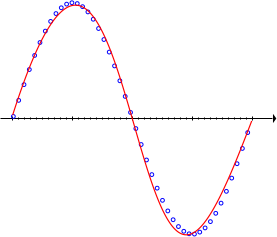
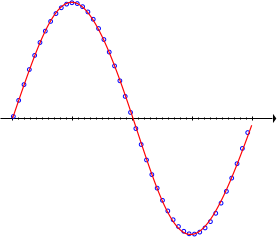
added quadratic and mnist_autoencoder sample

diff --git a/example/mnist_autoencoder.c b/example/mnist_autoencoder.c
@@ -1,0 +1,94 @@
+//---------------------------------------------------------
+//	Cat's eye
+//
+//		©2016 Yuichiro Nakada
+//---------------------------------------------------------
+
+// gcc mnist_autoencoder.c -o mnist_autoencoder -lm -Ofast -fopenmp -lgomp
+// clang mnist_autoencoder.c -o mnist_autoencoder -lm -Ofast
+//#define CATS_AUTOENCODER
+#define CATS_LOSS_MSE
+//#define CATS_OPT_ADAGRAD
+//#define CATS_OPT_ADAM
+//#define CATS_OPT_RMSPROP
+//#define CATS_OPT_RMSPROPGRAVES
+//#define CATS_OPT_MOMENTUM
+#include "../catseye.h"
+//#define STB_IMAGE_IMPLEMENTATION
+//#include "../stb_image.h"
+#define STB_IMAGE_WRITE_IMPLEMENTATION
+#include "../stb_image_write.h"
+
+int main()
+{
+	int size = 28*28;	// 入出力層(28x28)
+	int hidden = 64;	// 隠れ層
+	//int hidden = 500;	// 隠れ層
+	int sample = 60000;
+
+	CatsEye cat;
+	CatsEye__construct(&cat, size, hidden, size, 0);
+
+	double *x = malloc(sizeof(double)*size*sample);	// 訓練データ
+//	int t[sample];			// ラベルデータ
+	unsigned char *data = malloc(sample*size);
+
+	// 訓練データの読み込み
+	printf("Training data:\n");
+	FILE *fp = fopen("train-images-idx3-ubyte", "rb");
+	if (fp==NULL) return -1;
+	fread(data, 16, 1, fp);		// header
+	fread(data, size, sample, fp);	// data
+	for (int i=0; i<sample*size; i++) x[i] = data[i] / 255.0;
+	fclose(fp);
+	/*fp = fopen("train-labels-idx1-ubyte", "rb");
+	if (fp==NULL) return -1;
+	fread(data, 8, 1, fp);		// header
+	fread(data, 1, sample, fp);	// data
+	for (int i=0; i<sample; i++) t[i] = data[i];
+	fclose(fp);*/
+	free(data);
+
+	// 多層パーセプトロンの訓練
+	printf("Starting training using (stochastic) gradient descent\n");
+//	CatsEye_train(&cat, x, x, sample-1, 100, 1e-5);		// SGD[h64/20.0]
+//	CatsEye_train(&cat, x, x, sample-1, 500, 1e-5);		// SGD[h64/15.0]
+	CatsEye_train(&cat, x, x, sample-1, 1500, 1e-5);	// SGD[h64/15.0]
+//	CatsEye_train(&cat, x, x, sample-1, 5500, 1e-5);	// SGD[h64/3.9]
+	printf("Training complete\n");
+//	CatsEye_save(&cat, "mnist_autoencoder.weights");
+//	CatsEye_saveJson(&cat, "mnist_autoencoder.json");
+
+	// 結果の表示
+	unsigned char *pixels = malloc(size*100);
+	for (int i=0; i<50; i++) {
+		double mse = 0;
+		CatsEye_forward(&cat, x+size*i);
+		unsigned char *p = &pixels[(i/10)*size*10 + (i%10)*28];
+		for (int j=0; j<size; j++) {
+			p[(j/28)*28*10+(j%28)] = cat.o3[j] * 255.0;
+			mse += (x[size*i+j]-cat.o3[j])*(x[size*i+j]-cat.o3[j]);
+
+			p[5*size*10+(j/28)*28*10+(j%28)] = x[size*i+j] * 255.0;
+		}
+		printf("mse %lf\n", mse);
+	}
+	stbi_write_png("mnist_autoencoder.png", 28*10, 28*10, 1, pixels, 28*10);
+
+	// 重みをスケーリング
+/*	double max = cat.w1[0];
+	double min = cat.w1[0];
+	for (int i=0; i<(size+1)*hidden; i++) {
+		if (max < cat.w1[i]) max = cat.w1[i];
+		if (min > cat.w1[i]) min = cat.w1[i];
+	}
+	for (int i=0; i<(size+1)*hidden; i++) {
+		cat.w1[i] = (cat.w1[i] - min) / (max - min);
+		//cat.w1[i] *= 255.0;
+		pixels[i] = cat.w1[i] * 255.0;
+	}
+	stbi_write_png("autoencoder_weights.png", size+1, hidden, 1, pixels, size+1);*/
+	free(pixels);
+
+	return 0;
+}

diff --git a/catseye.h b/catseye.h
@@ -10,6 +10,8 @@
 #include <time.h>
 #include <math.h>
 
+#define CATS_RANDOM
+
 #define CATS_SIGMOID
 //#define CATS_TANH
 //#define CATS_SCALEDTANH
@@ -20,7 +22,7 @@
 #ifdef CATS_SIGMOID_CROSSENTROPY
 // sigmoid function with cross entropy loss
 #define CATS_SIGMOID
-#define s_gain			10
+#define s_gain			1
 #define ACT2(x)			ACT1(x)
 #define DACT2(x)		DACT1(x)
 // SoftmaxWithLoss
@@ -105,10 +107,10 @@
 // SGD (Vanilla update)
 #define CATS_OPT_SGD
 #define OPT_CALC1(x)
-//#define OPT_CALC2(n, x, y)		this->w##x[i*n+j] -= eta*this->o##x[i] *this->d##y[j]
+//#define OPT_CALC2(n, x, y)	this->w##x[i*n+j] -= eta*this->o##x[i] *this->d##y[j]
 // SVM (http://d.hatena.ne.jp/echizen_tm/20110627/1309188711)
 // ∂loss(w, x, t) / ∂w = ∂(λ - twx + α * w^2 / 2) / ∂w = - tx + αw
-#define OPT_CALC2(n, x, y)		this->w##x[i*n+j] -= eta*this->o##x[i] *this->d##y[j] +this->w##x[i*n+j]*1e-8
+#define OPT_CALC2(n, x, y)	this->w##x[i*n+j] -= eta*this->o##x[i] *this->d##y[j] +this->w##x[i*n+j]*1e-8
 #endif
 
 typedef struct {
@@ -257,7 +259,6 @@ void CatsEye_forward(CatsEye *this, double *x)
 	this->o1[this->in] = 1;	// bias
 
 	// caluculation of hidden layer
-//	#pragma omp parallel for
 	for (int j=0; j<this->hid; j++) {
 /*		this->xi2[j] = 0;
 		for (int i=0; i<this->in+1; i++) {
@@ -293,12 +294,12 @@ void CatsEye_train(CatsEye *this, double *x, void *t, int N, int repeat, double 
 		memset(this->e3, 0, sizeof(double)*this->out);
 		memset(this->e2, 0, sizeof(double)*this->hid);
 #endif
-#ifdef CATS_MINI_BATCH
+#ifndef CATS_RANDOM
 		for (int sample=0; sample<N; sample++) {
 			// forward propagation
 			CatsEye_forward(this, x+sample*this->in);
 #else
-		for (int n=0; n<100; n++) {
+		for (int n=0; n<2000/*N/*100*/; n++) {
 			// forward propagation
 			//srand((unsigned)time(NULL));
 			//int sample = ((double)rand()+1.0)/((double)RAND_MAX+2.0) * N;
@@ -321,7 +322,6 @@ void CatsEye_train(CatsEye *this, double *x, void *t, int N, int repeat, double 
 				this->d3[i] = this->o3[i]-((double*)t)[sample*this->out+i];
 //				this->d3[i] = (this->o3[i]-((double*)t)[sample*this->out+i]) * DACT2(this->o3[i]);
 #endif
-				// AdaGrad (http://qiita.com/ak11/items/7f63a1198c345a138150)
 //				this->e3[i] += this->d3[i]*this->d3[i];
 				OPT_CALC1(3);
 			}
@@ -363,6 +363,13 @@ void CatsEye_train(CatsEye *this, double *x, void *t, int N, int repeat, double 
 				}
 			}
 			//transpose(this->w1, this->w2, this->in+1, this->hid);
+			/*double *dst = this->w2;
+			for (int i=0; i<this->hid; i++) {
+				for (int j=0; j<this->in; j++) {
+					*dst++ = this->w1[this->hid*j + i];
+				}
+				dst++;
+			}*/
 #endif
 
 			// calculate the mean squared error

diff --git a/example/autoencoder.c b/example/autoencoder.c
@@ -63,17 +63,18 @@ int main()
 //	CatsEye_train(&cat, x, x, 1, 50/*repeat*/, 0.01);
 //	CatsEye_train(&cat, x, x, 2, 1000/*repeat*/, 0.01);
 //	CatsEye_train(&cat, x, x, 3, 1000/*repeat*/, 0.001);
-//	CatsEye_train(&cat, x, x, 10, 10000, 0.001);		// Success by SGD
-//	CatsEye_train(&cat, x, x, 50, 1000000, 1e-5);		// SGD[3.0], Momentum[9.0], Adam[96], SGD[h48/0.06]
+//	CatsEye_train(&cat, x, x, 10, 1000, 0.001);		// Success by SGD[0.0]
+	//CatsEye_train(&cat, x, x, 50, 1000000, 1e-5);		// SGD[3.0], Momentum[9.0], Adam[96], SGD[h48/0.06]
 //	CatsEye_train(&cat, x, x, 100, 100000, 1e-5);		// SGD[h48/4.5]
 //	CatsEye_train(&cat, x, x, sample-1, 10000, 0.01);	// AdaGrad[127]
 //	CatsEye_train(&cat, x, x, sample-1, 10000, 1e-4);	// Adam, RMSpropGraves, SGD[89.0]
 	//CatsEye_train(&cat, x, x, 50, 30000, 1e-3);		// AdaGrad[h48/7.2]
-	CatsEye_train(&cat, x, x, 50, 100000, 1e-4);		// SGD[h48/0.25], SGD[h56/0.002], SGD[h64/0.000013]
+//	CatsEye_train(&cat, x, x, 50, 100000, 1e-4);		// SGD[h48/0.25], SGD[h56/0.002], SGD[h64/0.000013]
 	//CatsEye_train(&cat, x, x, 50, 1900, 1e-2);		// SGD[h48+sigmoid/0.000099]
 	//CatsEye_train(&cat, x, x, sample-1, 1900, 1e-3);	// SGD[h48+sigmoid/0.000063]
 	//CatsEye_train(&cat, x, x, sample-1, 5500, 1e-4);	// SGD[h48+sigmoid/0.0029]
-//	CatsEye_train(&cat, x, x, sample-1, 10000, 1e-5);	// SGD[27.0], SGD[h56/4.6], SGD[h64/3.5], SGD[h16/128]
+	CatsEye_train(&cat, x, x, sample-1, 10000, 1e-5);	// SGD[27.0], SGD[h56/4.6], SGD[h64/3.5], SGD[h16/128]
+	//CatsEye_train(&cat, x, x, sample-1, 500, 1e-4);	// SGD[52.3]
 	//CatsEye_train(&cat, x, x, sample-1, 30000, 1e-5);	// SGD[h48/8.8], SGD[h48+sigmoid/0.0047]
 	//CatsEye_train(&cat, x, x, sample-1, 10000, 1e-6);	// SGD[78.0], SGD/tanh[51.4]
 	printf("Training complete\n");
@@ -85,11 +86,12 @@ int main()
 	for (int i=0; i<50; i++) {
 		double mse = 0;
 		CatsEye_forward(&cat, x+size*i);
+		unsigned char *p = &pixels[(i/10)*size*10 + (i%10)*8];
 		for (int j=0; j<size; j++) {
-			pixels[(i/10)*8*8*10+(i%10)*8+(j/8)*8*10+(j%8)] = cat.o3[j] * 255.0;
+			p[(j/8)*8*10+(j%8)] = cat.o3[j] * 255.0;
 			mse += (x[size*i+j]-cat.o3[j])*(x[size*i+j]-cat.o3[j]);
 
-			pixels[5*8*8*10+(i/10)*8*8*10+(i%10)*8+(j/8)*8*10+(j%8)] = x[size*i+j] * 255.0;
+			p[5*size*10+(j/8)*8*10+(j%8)] = x[size*i+j] * 255.0;
 		}
 		printf("mse %lf\n", mse);
 	}

diff --git a/example/quadratic.c b/example/quadratic.c
@@ -1,0 +1,77 @@
+//---------------------------------------------------------
+//	Cat's eye
+//
+//		©2016 Yuichiro Nakada
+//---------------------------------------------------------
+
+// gcc quadratic.c -o quadratic -lm -Ofast -fopenmp -lgomp
+// clang quadratic.c -o quadratic -lm -Ofast
+// ps2pdf quadratic.ps 
+#define CATS_LOSS_MSE
+#include "../catseye.h"
+#include "../pssub.h"
+
+int main()
+{
+	int size = 1;		// 入力層
+	int sample = 360;
+
+	CatsEye cat;
+	CatsEye__construct(&cat, size, 100/*hidden*/, 1/*output*/, 0);
+
+	// 訓練データ
+	double x[sample];
+	for (int i=0; i<sample; i++) x[i] = (double)i/sample*2 -1;
+	// ラベルデータ
+	double t[sample];
+	for (int i=0; i<sample; i++) t[i] = x[i] * x[i];
+
+	// 多層パーセプトロンの訓練
+	printf("Starting training using (stochastic) gradient descent\n");
+	CatsEye_train(&cat, x, t, sample, 2000/*repeat*/, 0.01);
+	printf("Training complete\n");
+	//CatsEye_save(&cat, "quadratic.weights");
+
+	// 結果の表示
+/*	FILE *fp = fopen("quadratic.csv", "w");
+	if (fp==NULL) return -1;
+	for (int i=0; i<sample; i++) {
+		CatsEye_forward(&cat, x+size*i);
+		fprintf(fp, "%d, %lf\n", i, cat.o3[0]);
+	}
+	fclose(fp);*/
+
+	// postscriptで表示
+	PS_init("quadratic.ps");
+	PS_viewport(0.2, 0.2, 0.8, 0.8);
+	PS_xyworld(-1.2, -0.2, 1.2, 1.2);
+	PS_linewidth(1.0);
+	PS_linety(1);
+	PS_setgray(0.8);
+	PS_xaxis(-1.0, 0.0, 1.0, 0.0, 2, 10);
+
+	PS_setrgb(0.0, 0.0, 1.0);	// quadratic function
+//	PS_plot(x[0], t[0], 3);
+//	for (int i=1; i<sample; i++) {
+	for (int i=1; i<sample; i+=16) {
+//		PS_plot(x[i], t[i], 2);
+		PS_circ(x[i], t[i], 0.05);
+		PS_stroke();
+	}
+//	PS_stroke();
+
+	PS_linewidth(1.5);		// output
+	//PS_setgray(0.0);
+	PS_setrgb(1.0, 0.0, 0.0);
+	CatsEye_forward(&cat, x);
+	PS_plot(x[0], cat.o3[0], 3);
+	for (int i=1; i<sample; i++) {
+		CatsEye_forward(&cat, x+size*i);
+		PS_plot(x[i], cat.o3[0], 2);
+	}
+	PS_stroke();
+	PS_fin();
+	system("ps2pdf quadratic.ps");
+
+	return 0;
+}

diff --git a/README.md b/README.md
@@ -7,9 +7,16 @@ just include header files in your project
 for more information, see example/
 
 # Demo
-- http://yui0.github.io/catseye/example/html/index.html
+- Recognizing hand-written, MNIST digits
+  -http://yui0.github.io/catseye/example/html/index.html
 - Function approximation
-  *![Function approximation](example/sin.png)
+  -![sin](example/sin.png)
+  -![quadratic function](example/quadratic.png)
+- Autoencoder
+  -epoch=100![autoencoder](mnist_autoencoder_100.png)
+  -epoch=500![autoencoder](mnist_autoencoder_500.png)
+  -epoch=1500![autoencoder](mnist_autoencoder_1500.png)
+  -epoch=5500![autoencoder](mnist_autoencoder_5500.png)
 
 # Refrence
 - Multilayer perceptron [http://kivantium.hateblo.jp/entry/2014/12/22/004640]

diff --git a/example/README.md b/example/README.md
@@ -24,6 +24,10 @@
   * as code is heavily commented, you can understand how it works
 * mnist_train.c and mnist_test.c
   * classify numbers image by using multi layer perceptron
+* mnist_autoencoder.c
+  * autoencoder sample
+* quadratic.c
+  * function approximation by using multi layer perceptron
 * sin.c
   * function approximation by using multi layer perceptron
 * weather.c
